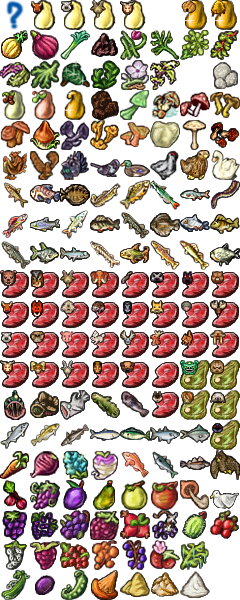
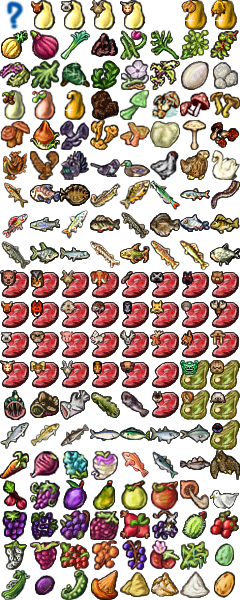
Variable eggs added

Changed region(s): [[0.875, 0.9, 0.9917, 1.0], [0.7583, 0.09, 0.875, 0.15]]

diff --git a/rawdata/w11/tables.js b/rawdata/w11/tables.js
@@ -1,4 +1,9 @@
-var gl_nofx = ["Mix", "Spring Water", "Rendered Animal Fat", "No spice", "Domestic Honey"];
+var gl_nofx = ["Mix", "Spring Water", "Rendered Animal Fat", "No spice", "Honey", "Chicken Egg"];
+var gl_egg = [
+	"Chicken Egg",
+	"Magpie Egg",
+	"Woodgrouse Egg"
+];
 var gl_spice = [
 	"No spice",
 	"Black Pepper",
@@ -292,13 +297,14 @@ var go_inglists = {
 	"berry" : gl_berry,
 	"butter" : gl_butter,
 	"carcass" : gl_carcass,
+	"egg" : gl_egg,
 	"fat" : gl_fat,
 	"fish" : gl_fish,
 	"flour" : gl_flour,
 	"fob" : gl_fob,
 	"fruit" : gl_fruit,
-	"horse" : gl_horse,
 	"honey" : gl_honey,
+	"horse" : gl_horse,
 	"meat" : gl_meat,
 	"meatweird" : gl_meatweird,
 	"milk" : gl_milk,
@@ -319,25 +325,37 @@ var gl_food = [
 	["Autumn Steak", ["mushroom", "meat", "salad", "spice"], {"con1" : 4, "prc1" : 3, "prc2" : 2}, 800, 3],
 	["Bark Bread", ["water", "flour"], {"con1" : 5, "wil1" : 5}, 500, 5],
 	["Beaver Dog", ["mushroom"], {"con2" : 4, "csm1" : 2, "wil1" : 2}, 600, 2.5],
+	["Birthday Cake", ["water", "flour", "milk", "butter", "honey", "egg"], {"csm2" : 12, "psy2" : 5}, 1000, 3.5],
 	["Blueberry Pie", ["water", "flour"], {"int1" : 4, "prc1" : 3}, 200, 3.5],
 	["Bread", ["water", "flour"], {"con1" : 5}, 500, 5],
+	["Butter-Chived Trout", ["butter"], {"str1" : 3, "int2" : 4, "prc1" : 5}, 400, 2.5],
 	["Carrot Cake", ["water", "flour", "butter"], {"prc1" : 7}, 500, 3],
+	["Crêpe Citrouille", ["butter", "flour", "milk", "egg", "butter"], {"str1" : 5, "agi1" : 4, "csm2" : 2}, 750, 3],
+	["Crêpe Noisette", ["butter", "flour", "milk", "egg", "sweetener"], {"con1" : 5, "agi1" : 4, "csm2" : 2}, 750, 3],
 	["Fish in Tears", ["fish", "fat", "onion"], {"agi1" : 4, "csm2" : 4}, 500, 2.5],
 	["Fishwrap", ["berry", "fish", "spice"], {"int1" : 2, "prc1" : 3, "wil1" : 2}, 500, 2],
 	["Greenleaf Pie", ["flour", "salad", "water"], {"int1" : 2, "con1" : 3, "wil1" : 1}, 500, 3],
 	["Grubpie", ["water", "flour"], {"str2" : 3, "prc2" : 4, "wil2" : 4}, 600, 3],
+	["Jotun's Morsel", ["meat", "fat", "spice"], {"str1" : 4, "int2" : 2, "con1" : 4, "wil1" : 4}, 1000, 6],
 	["Kebab Meat", ["meat", "spice"],	{"con1" : 2.0}, 200.0, 1.0],
 	["Lingon Loaf", ["water", "flour"], {"con1" : 2, "csm1" : 2, "csm2" : 3}, 500, 3],
 	["Linseed Loaf", ["water", "flour"], {"int1" : 1, "con1" : 2, "prc1" : 4}, 500, 3],
-	["Magpie", ["water", "flour", "spice"], {"int2" : 3, "con1" : 3, "wil1" : 4}, 750, 4],
-	["Mushroom-Burst Glutton", ["carcass", "mushroom", "spice"], {"con1" : 3, "prc1" : 3, "csm2" : 2}, 750, 2],
-	["Spicy Salad", ["tuber", "salad", "onion", "spice"], {"str2" : 1, "agi1" : 2, "csm1" : 3}, 500, 2.5],
-	["Meatpie", ["water", "flour", "meat", "spice"], {"str1" : 5, "con1" : 4}, 700, 5],
+	["Magpie", ["water", "flour", "egg", "spice"], {"int2" : 3, "con1" : 3, "wil1" : 4}, 750, 4],
+	["Meatpie", ["water", "flour", "meat", "egg", "spice"], {"str1" : 5, "con1" : 4}, 700, 5],
 	["Mushroom & Onion Pirozhki", ["water", "flour", "onion", "mushroom"], {"con1" : 4, "dex1" : 4}, 350, 5],
+	["Mushroom-Burst Glutton", ["carcass", "mushroom", "spice"], {"con1" : 3, "prc1" : 3, "csm2" : 2}, 750, 2],
 	["Olive Bread",	[ "flour", "water" ],	{"str1" : 3.0, "agi2" : 2.0, "dex1" : 4.0}, 500.0, 2.0],
+	["Pancake", ["butter", "flour", "milk", "egg"], {"csm1" : 5}, 500, 4],
+	["Pea Pie", ["water", "flour"], {"con1" : 5, "csm1" : 3, "prc1" : 2}, 500, 3.5],
+	["Pommace Perdue", ["butter", "flour", "milk", "egg", "sweetener"], {"prc1" : 5, "agi1" : 4, "csm2" : 2}, 750, 3],
 	["Pumpkin Bread", ["water", "flour"], {"con1" : 4, "csm1" : 2}, 500, 5],
 	["Pumpkin Pie", ["water", "flour"], {"str1" : 2, "con1" : 6}, 300, 4],
+	["Raisin Butter-Cake", ["water", "flour", "butter"], {"csm1" : 7}, 350, 2.5],
+	["Sacrebleu", ["butter", "flour", "milk", "egg", "milk"], {"int1" : 5, "agi1" : 4, "csm2" : 2}, 750, 3],
 	["Seedcrisp Flatbread", ["water", "flour"], {"str1" : 1, "con1" : 1, "wil2" : 2}, 500, 2],
+	["Spicy Salad", ["tuber", "salad", "onion", "spice"], {"str2" : 1, "agi1" : 2, "csm1" : 3}, 500, 2.5],
+	["Strawberries in Cream", ["milk"], {"int2" : 4, "csm1" : 4, "wil1" : 4}, 500, 1],
+	["Strawberry Cake", ["water", "flour", "butter"], {"wil2" : 6, "prc1" : 6}, 400, 2],
 	["Zesty Brill", ["onion"], {"str1" : 4, "dex1" : 4, "wil1" : 5}, 800, 2.5]
 ];
 var gl_fepmod = [
@@ -505,5 +523,97 @@ var gl_fepmod = [
 	["Spicy Salad", ["Turnip", "Laurel Leaves", "Lettuce Leaf", "Red Onion"], {"str2" : 0.992, "agi1" : 2.0, "csm1" : 1.5, "wil1" : 0.675, "con1" : 3.9}], 
 	["Spicy Salad", ["Turnip", "Laurel Leaves", "Red Onion", "Beetroot Leaves"], {"str2" : 0.992, "agi1" : 2.0, "csm1" : 2.8875, "int1" : 0.2813}], 
 	["Spicy Salad", ["Turnip", "Laurel Leaves", "Yellow Onion", "Beetroot Leaves"], {"str2" : 0.7936, "agi1" : 2.0, "csm1" : 3.2214, "wil1" : 0.5625}], 
-	["Spicy Salad", ["Turnip", "Laurel Leaves", "Yellow Onion", "Lettuce Leaf"], {"str2" : 0.7936, "agi1" : 2.0, "csm1" : 1.7232, "wil1" : 0.675, "con1" : 3.4464}]
+	["Spicy Salad", ["Turnip", "Laurel Leaves", "Yellow Onion", "Lettuce Leaf"], {"str2" : 0.7936, "agi1" : 2.0, "csm1" : 1.7232, "wil1" : 0.675, "con1" : 3.4464}],
+	["Autumn Steak", ["Laurel Leaves", "Swan", "Lettuce Leaf", "Giant Puffball"], {"prc2" : 5.1233, "prc1" : 3.0, "con1" : 4.0, "dex2" : 1.782}], 
+	["Autumn Steak", ["Swan", "Lettuce Leaf", "Giant Puffball", "Dill"], {"prc2" : 7.2, "prc1" : 3.78, "con1" : 2.4}], 
+	["Autumn Steak", ["Swan", "Lettuce Leaf", "Giant Puffball"], {"prc2" : 7.2, "prc1" : 3.0, "con1" : 2.4}], 
+	["Autumn Steak", ["Swan", "Lettuce Leaf", "Kvann", "Giant Puffball"], {"prc2" : 7.2, "prc1" : 2.4, "con1" : 3.0}], 
+	["Pea Pie", ["Barley Flour"], {"con1" : 5.0, "csm1" : 3.7, "prc1" : 1.8}], 
+	["Pea Pie", ["Wheat Flour"], {"con1" : 7.0, "csm1" : 3.0, "prc1" : 2.0}], 
+	["Pea Pie", ["Millet Flour"], {"con1" : 5.75, "csm1" : 3.0, "prc1" : 2.0}], 
+	["Meatpie", ["Mammoth", "Chicken Egg", "Wheat Flour", "Dill"], {"str1" : 4.32, "con1" : 4.0, "con2" : 4.5, "agi1" : 3.0}], 
+	["Meatpie", ["Laurel Leaves", "Mammoth", "Chicken Egg", "Millet Flour"], {"str1" : 4.0, "con1" : 6.43, "con2" : 4.84}], 
+	["Meatpie", ["Mammoth", "Chicken Egg", "Millet Flour", "Dill"], {"str1" : 4.0, "con1" : 5.75, "con2" : 4.86}], 
+	["Meatpie", ["Barley Flour", "Mammoth", "Chicken Egg"], {"str1" : 5.0, "con1" : 5.0, "con2" : 5.0}], 
+	["Meatpie", ["Mammoth", "Chicken Egg", "Chives", "Wheat Flour"], {"str1" : 4.0, "con1" : 4.0, "con2" : 4.5, "agi1" : 3.0663}], 
+	["Meatpie", ["Mammoth", "Chicken Egg", "Millet Flour", "Chives"], {"str1" : 4.0, "con1" : 5.75, "con2" : 4.5, "agi1" : 0.07}], 
+	["Meatpie", ["Laurel Leaves", "Mammoth", "Chicken Egg", "Wheat Flour"], {"str1" : 4.0, "con1" : 4.68, "con2" : 4.84, "agi1" : 3.0}], 
+	["Meatpie", ["Mammoth", "Chicken Egg", "Millet Flour", "Kvann"], {"str1" : 5.75, "con1" : 4.0, "con2" : 4.5}], 
+	["Meatpie", ["Mammoth", "Chicken Egg", "Wheat Flour", "Kvann"], {"str1" : 3.0, "con1" : 4.0, "con2" : 4.5, "agi1" : 4.0}], 
+	["Pancake", ["Barley Flour", "Cowsmilk", "Chicken Egg", "Cowsmilk"], {"csm1" : 2.25, "con1" : 0.875, "str1" : 4.375}], 
+	["Pancake", ["Barley Flour", "Goatsmilk", "Chicken Egg", "Goatsmilk"], {"csm1" : 2.25, "con1" : 0.875, "wil1" : 4.375}], 
+	["Pancake", ["Cowsmilk", "Chicken Egg", "Wheat Flour", "Cowsmilk"], {"csm1" : 2.5, "con1" : 5.88}], 
+	["Pancake", ["Cowsmilk", "Chicken Egg", "Millet Flour", "Cowsmilk"], {"csm1" : 2.5, "con1" : 4.83}], 
+	["Pancake", ["Goatsmilk", "Chicken Egg", "Millet Flour", "Goatsmilk"], {"csm1" : 2.5, "dex1" : 3.36, "con1" : 1.47}], 
+	["Pancake", ["Goatsmilk", "Chicken Egg", "Wheat Flour", "Goatsmilk"], {"csm1" : 2.5, "dex1" : 3.36, "agi1" : 2.52}], 
+	["Autumn Steak", ["Wild Beef", "Parboiled Morels", "Lettuce Leaf"], {"prc2" : 2.0, "prc1" : 3.0, "con1" : 1.5, "dex2" : 4.0}], 
+	["Autumn Steak", ["Wild Beef", "Parboiled Morels", "Lettuce Leaf", "Chives"], {"prc2" : 2.0, "prc1" : 3.0, "con1" : 1.5, "dex2" : 4.0, "agi1" : 0.4502}], 
+	["Autumn Steak", ["Wild Beef", "Parboiled Morels", "Lettuce Leaf", "Dill"], {"prc2" : 2.0, "prc1" : 3.0, "con1" : 1.89, "dex2" : 4.0}], 
+	["Autumn Steak", ["Wild Beef", "Parboiled Morels", "Lettuce Leaf", "Kvann"], {"prc2" : 3.0, "prc1" : 1.5, "con1" : 4.0, "dex2" : 2.0}], 
+	["Autumn Steak", ["Wild Beef", "Laurel Leaves", "Parboiled Morels", "Lettuce Leaf"], {"prc2" : 2.35, "prc1" : 3.0, "con1" : 1.5, "dex2" : 4.7}], 
+	["Autumn Steak", ["Wild Beef", "Green Kelp", "Laurel Leaves", "Parboiled Morels"], {"prc2" : 2.0, "prc1" : 4.215, "con1" : 2.8, "csm1" : 0.81}], 
+	["Autumn Steak", ["Wild Beef", "Green Kelp", "Parboiled Morels", "Dill"], {"prc2" : 2.0, "prc1" : 3.9, "con1" : 3.528, "csm1" : 0.6}], 
+	["Autumn Steak", ["Wild Beef", "Green Kelp", "Parboiled Morels", "Chives"], {"prc2" : 2.0, "prc1" : 3.9, "con1" : 2.8, "csm1" : 0.6, "agi1" : 0.3987}], 
+	["Autumn Steak", ["Wild Beef", "Green Kelp", "Parboiled Morels", "Kvann"], {"prc2" : 3.9, "prc1" : 2.8, "con1" : 0.6, "csm1" : 2.0}], 
+	["Pommace Perdue", ["Barley Flour", "Cowsmilk", "Chicken Egg", "Domestic Honey", "Cowsmilk"], {"prc1" : 2.75, "agi1" : 4.4, "csm2" : 1.98, "str1" : 4.774}], 
+	["Pommace Perdue", ["Barley Flour", "Goatsmilk", "Chicken Egg", "Domestic Honey", "Goatsmilk"], {"prc1" : 2.75, "agi1" : 4.4, "csm2" : 1.98, "str1" : 0.385, "wil1" : 4.389}], 
+	["Pommace Perdue", ["Goatsmilk", "Chicken Egg", "Wheat Flour", "Domestic Honey", "Goatsmilk"], {"prc1" : 2.75, "agi1" : 7.634, "csm2" : 1.1, "wil1" : 4.312}], 
+	["Pommace Perdue", ["Cowsmilk", "Chicken Egg", "Wheat Flour", "Domestic Honey", "Cowsmilk"], {"prc1" : 5.984, "agi1" : 4.4, "csm2" : 1.1, "str1" : 4.312}], 
+	["Pommace Perdue", ["Cowsmilk", "Chicken Egg", "Millet Flour", "Domestic Honey", "Cowsmilk"], {"prc1" : 2.75, "agi1" : 4.4, "csm2" : 1.1, "str1" : 4.312, "con1" : 1.8865}], 
+	["Pommace Perdue", ["Goatsmilk", "Chicken Egg", "Millet Flour", "Domestic Honey", "Goatsmilk"], {"prc1" : 2.75, "agi1" : 4.4, "csm2" : 1.1, "wil1" : 6.1985}], 
+	["Crêpe Citrouille", ["Barley Flour", "Cowsmilk", "Chicken Egg", "Cowsmilk", "Cowsmilk"], {"str1" : 1.425, "agi1" : 4.0, "csm2" : 0.45, "con1" : 7.875}], 
+	["Crêpe Citrouille", ["Barley Flour", "Goatsmilk", "Chicken Egg", "Goatsmilk", "Goatsmilk"], {"str1" : 1.425, "agi1" : 4.0, "csm2" : 0.45, "dex1" : 7.875}], 
+	["Crêpe Citrouille", ["Cowsmilk", "Chicken Egg", "Wheat Flour", "Cowsmilk", "Cowsmilk"], {"str1" : 1.25, "agi1" : 4.0, "csm2" : 0.5, "con1" : 5.88, "prc1" : 4.41}], 
+	["Crêpe Citrouille", ["Cowsmilk", "Chicken Egg", "Millet Flour", "Cowsmilk", "Cowsmilk"], {"str1" : 1.25, "agi1" : 4.0, "csm2" : 0.5, "con1" : 8.4525}], 
+	["Crêpe Citrouille", ["Goatsmilk", "Chicken Egg", "Millet Flour", "Goatsmilk", "Goatsmilk"], {"str1" : 1.25, "agi1" : 4.0, "csm2" : 0.5, "dex1" : 5.88, "con1" : 2.5725}], 
+	["Crêpe Citrouille", ["Goatsmilk", "Chicken Egg", "Wheat Flour", "Goatsmilk", "Goatsmilk"], {"str1" : 1.25, "agi1" : 4.0, "csm2" : 0.5, "dex1" : 5.88, "con1" : 4.41}], 
+	["Sacrebleu", ["Cowsmilk", "Chicken Egg", "Millet Flour", "Cowsmilk", "Cowsmilk"], {"int1" : 1.25, "agi1" : 4.0, "csm2" : 0.5, "str1" : 5.88, "con1" : 2.5725}], 
+	["Sacrebleu", ["Barley Flour", "Cowsmilk", "Chicken Egg", "Cowsmilk", "Cowsmilk"], {"int1" : 1.25, "agi1" : 4.0, "csm2" : 1.8, "str1" : 6.16}], 
+	["Sacrebleu", ["Barley Flour", "Goatsmilk", "Chicken Egg", "Goatsmilk", "Goatsmilk"], {"int1" : 1.25, "agi1" : 4.0, "csm2" : 1.8, "str1" : 0.175, "wil1" : 5.985}], 
+	["Sacrebleu", ["Cowsmilk", "Chicken Egg", "Wheat Flour", "Cowsmilk", "Cowsmilk"], {"int1" : 1.25, "agi1" : 4.0, "csm2" : 0.5, "str1" : 5.88, "prc1" : 4.41}], 
+	["Sacrebleu", ["Goatsmilk", "Chicken Egg", "Millet Flour", "Goatsmilk", "Goatsmilk"], {"int1" : 1.25, "agi1" : 4.0, "csm2" : 0.5, "wil1" : 8.4525}], 
+	["Sacrebleu", ["Goatsmilk", "Chicken Egg", "Wheat Flour", "Goatsmilk", "Goatsmilk"], {"int1" : 1.25, "agi1" : 8.41, "csm2" : 0.5, "wil1" : 5.88}], 
+	["Autumn Steak", ["Pork", "Lettuce Leaf", "Chives", "Giant Puffball"], {"prc2" : 13.725, "prc1" : 3.0, "con1" : 6.6, "agi1" : 0.9647}], 
+	["Autumn Steak", ["Pork", "Lettuce Leaf", "Giant Puffball", "Dill"], {"prc2" : 13.725, "prc1" : 3.78, "con1" : 6.6}], 
+	["Autumn Steak", ["Laurel Leaves", "Pork", "Lettuce Leaf", "Giant Puffball"], {"prc2" : 14.775, "prc1" : 3.0, "con1" : 6.6}], 
+	["Autumn Steak", ["Pork", "Lettuce Leaf", "Giant Puffball"], {"prc2" : 13.725, "prc1" : 3.0, "con1" : 6.6}], 
+	["Autumn Steak", ["Pork", "Lettuce Leaf", "Kvann", "Giant Puffball"], {"prc2" : 13.725, "prc1" : 6.6, "con1" : 3.0}], 
+	["Birthday Cake", ["Barley Flour", "Sheepsmilk", "Domestic Honey", "Sheepsmilk"], {"csm2" : 6.6, "psy2" : 4.95, "str1" : 0.9625, "csm1" : 10.5875}], 
+	["Birthday Cake", ["Barley Flour", "Goatsmilk", "Domestic Honey", "Goatsmilk"], {"csm2" : 6.6, "psy2" : 4.95, "str1" : 0.9625, "dex1" : 10.5875}], 
+	["Birthday Cake", ["Barley Flour", "Domestic Honey"], {"csm2" : 13.2, "psy2" : 4.95, "str1" : 1.925}], 
+	["Birthday Cake", ["Barley Flour", "Cowsmilk", "Domestic Honey", "Cowsmilk"], {"csm2" : 6.6, "psy2" : 4.95, "str1" : 0.9625, "con1" : 10.5875}], 
+	["Fishwrap", ["Laurel Leaves", "Elderberries", "Cave angler"], {"prc1" : 2.52, "int1" : 2.0, "wil1" : 2.68, "int2" : 3.24}], 
+	["Fishwrap", ["Elderberries", "Cave angler", "Dill"], {"prc1" : 2.52, "int1" : 2.5, "wil1" : 2.0, "int2" : 3.24}], 
+	["Fishwrap", ["Elderberries", "Chives", "Cave angler"], {"prc1" : 2.52, "int1" : 2.0, "wil1" : 2.0, "agi1" : 0.2987, "int2" : 3.24}], 
+	["Fishwrap", ["Elderberries", "Kvann", "Cave angler"], {"prc1" : 1.4, "int1" : 3.6, "wil1" : 2.0, "int2" : 1.8}], 
+	["Fishwrap", ["Elderberries", "Cave angler"], {"prc1" : 2.52, "int1" : 2.0, "wil1" : 2.0, "int2" : 3.24}], 
+	["Jotun's Morsel", ["Mammoth"], {"str1" : 4.0, "con1" : 4.0, "wil1" : 4.0, "int2" : 2.0, "str2" : 3.5}], 
+	["Jotun's Morsel", ["Laurel Leaves", "Mammoth"], {"str1" : 4.0, "con1" : 4.0, "wil1" : 7.12, "int2" : 2.0, "con2" : 4.28}], 
+	["Jotun's Morsel", ["Mammoth", "Dill"], {"str1" : 4.0, "con1" : 4.0, "wil1" : 4.0, "int2" : 2.0, "str2" : 5.915}], 
+	["Jotun's Morsel", ["Mammoth", "Kvann"], {"str1" : 4.0, "con1" : 4.0, "wil1" : 2.0, "int2" : 4.0, "str2" : 3.5}], 
+	["Jotun's Morsel", ["Mammoth", "Chives"], {"str1" : 4.0, "con1" : 4.0, "wil1" : 4.0, "int2" : 2.0, "str2" : 3.5, "agi1" : 8.3047}], 
+	["Strawberries in Cream", [], {"int2" : 4, "csm1" : 4, "wil1" : 4}],
+	["Strawberries in Cream", ["Cowsmilk"], {"int2" : 3.0, "wil1" : 4.0, "csm1" : 3.0, "str1" : 2.8}], 
+	["Strawberries in Cream", ["Sheepsmilk"], {"int2" : 3.0, "wil1" : 4.0, "csm1" : 3.0, "dex1" : 2.8}], 
+	["Strawberries in Cream", ["Goatsmilk"], {"int2" : 4.0, "wil1" : 5.94, "csm1" : 3.0}], 
+	["Strawberry Cake", ["Barley Flour", "Cowsmilk"], {"wil2" : 4.5, "prc1" : 5.4, "con1" : 4.41}], 
+	["Strawberry Cake", ["Barley Flour", "Sheepsmilk"], {"wil2" : 4.5, "prc1" : 5.4, "con1" : 1.575, "csm1" : 2.835}], 
+	["Strawberry Cake", ["Barley Flour", "Goatsmilk"], {"wil2" : 4.5, "prc1" : 5.4, "con1" : 1.575, "dex1" : 2.835}], 
+	["Strawberry Cake", ["Barley Flour"], {"wil2" : 6.0, "prc1" : 5.4, "con1" : 2.1}], 
+	["Strawberry Cake", ["Cowsmilk", "Wheat Flour"], {"wil2" : 3.6, "prc1" : 7.2, "con1" : 4.2}], 
+	["Strawberry Cake", ["Sheepsmilk", "Wheat Flour"], {"wil2" : 3.6, "prc1" : 7.2, "csm1" : 4.2}], 
+	["Strawberry Cake", ["Goatsmilk", "Wheat Flour"], {"wil2" : 3.6, "prc1" : 7.2, "dex1" : 4.2}], 
+	["Strawberry Cake", ["Cowsmilk", "Millet Flour"], {"wil2" : 3.6, "prc1" : 4.5, "con1" : 5.775}], 
+	["Strawberry Cake", ["Sheepsmilk", "Millet Flour"], {"wil2" : 3.6, "prc1" : 4.5, "csm1" : 4.2, "con1" : 1.575}], 
+	["Strawberry Cake", ["Goatsmilk", "Millet Flour"], {"wil2" : 3.6, "prc1" : 4.5, "dex1" : 4.2, "con1" : 1.575}], 
+	["Strawberry Cake", ["Wheat Flour"], {"wil2" : 4.8, "prc1" : 9.6}], 
+	["Strawberry Cake", ["Millet Flour"], {"wil2" : 4.8, "prc1" : 6.0, "con1" : 2.1}], 
+	["Raisin Butter-Cake", ["Millet Flour"], {"csm1" : 5.6, "wil1" : 2.45}], 
+	["Raisin Butter-Cake", ["Cowsmilk", "Millet Flour"], {"csm1" : 3.9375, "con1" : 4.9306}], 
+	["Raisin Butter-Cake", ["Sheepsmilk", "Millet Flour"], {"csm1" : 6.776, "wil1" : 2.9645}], 
+	["Raisin Butter-Cake", ["Goatsmilk", "Millet Flour"], {"csm1" : 3.9375, "dex1" : 3.43, "con1" : 1.5006}], 
+	["Butter-Chived Trout", ["Cowsmilk"], {"str1" : 5.05, "int2" : 4.0, "prc1" : 3.75}], 
+	["Butter-Chived Trout", [], {"str1" : 3, "int2" : 4, "prc1" : 5}],
+	["Butter-Chived Trout", ["Sheepsmilk"], {"str1" : 2.25, "int2" : 4.0, "prc1" : 3.75, "dex1" : 2.8}], 
+	["Butter-Chived Trout", ["Goatsmilk"], {"str1" : 2.25, "int2" : 4.0, "prc1" : 3.75, "wil1" : 2.8}]
 ];

diff --git a/gfx/ingredient.css b/gfx/ingredient.css
@@ -18,6 +18,10 @@
 .barleyflour{background-position: -150px -570px}
 .wheatflour {background-position: -180px -570px}
 
+.magpieegg 			{background-position: -210px -540px}
+.woodgrouseegg	{background-position: -210px -570px}
+.chickenegg			{background-position: -180px -60px}
+
 .leek 			{background-position: -60px -30px}
 .redonion 	{background-position: -30px -30px}
 .yellowonion{background-position: -0px -30px}
